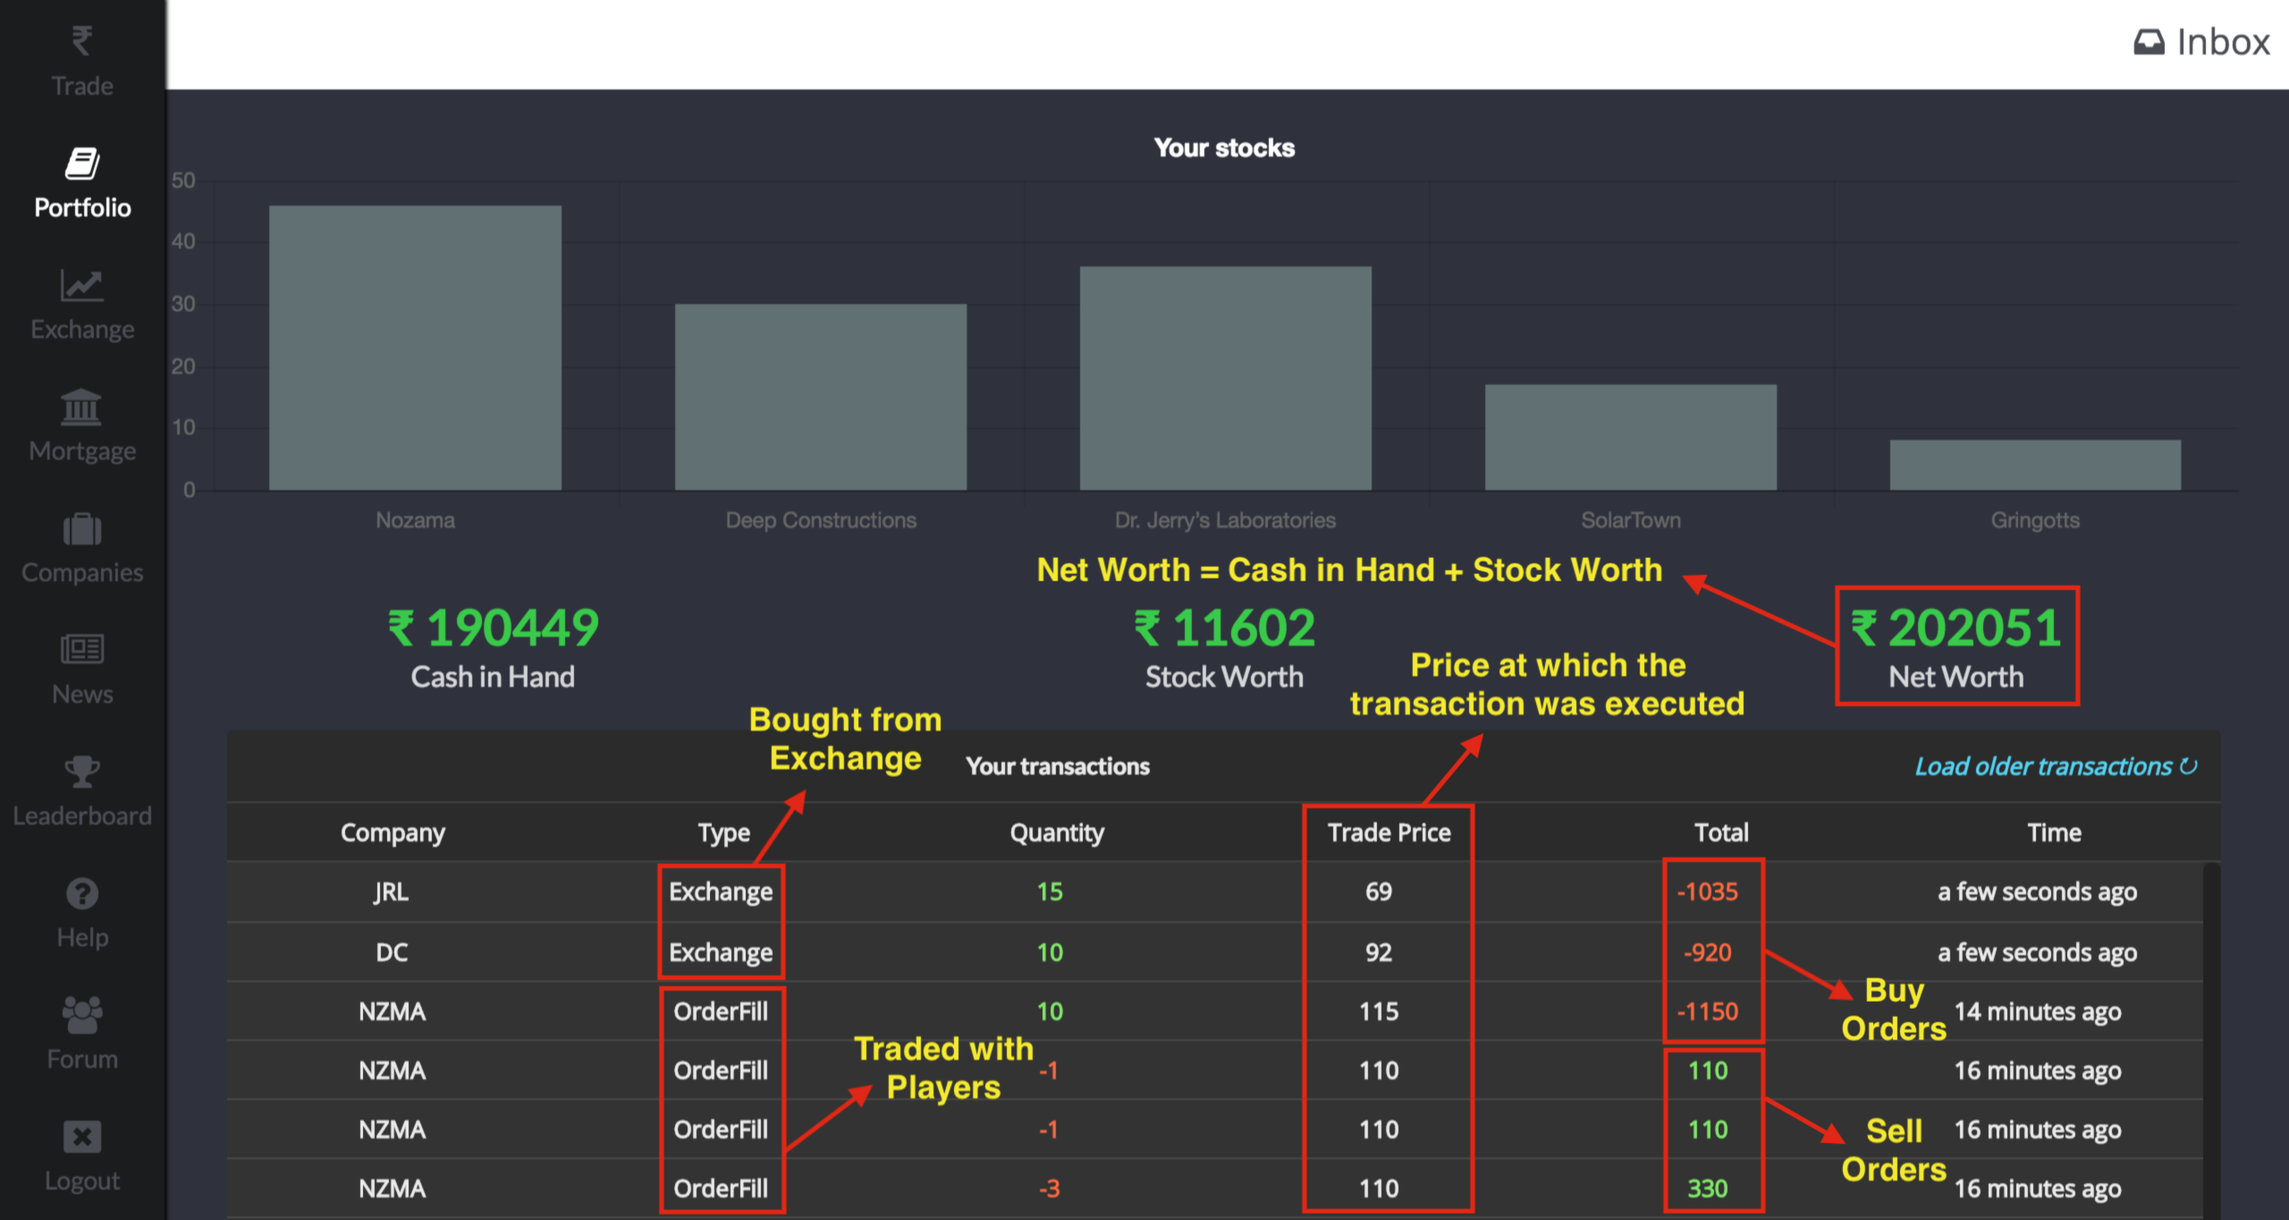
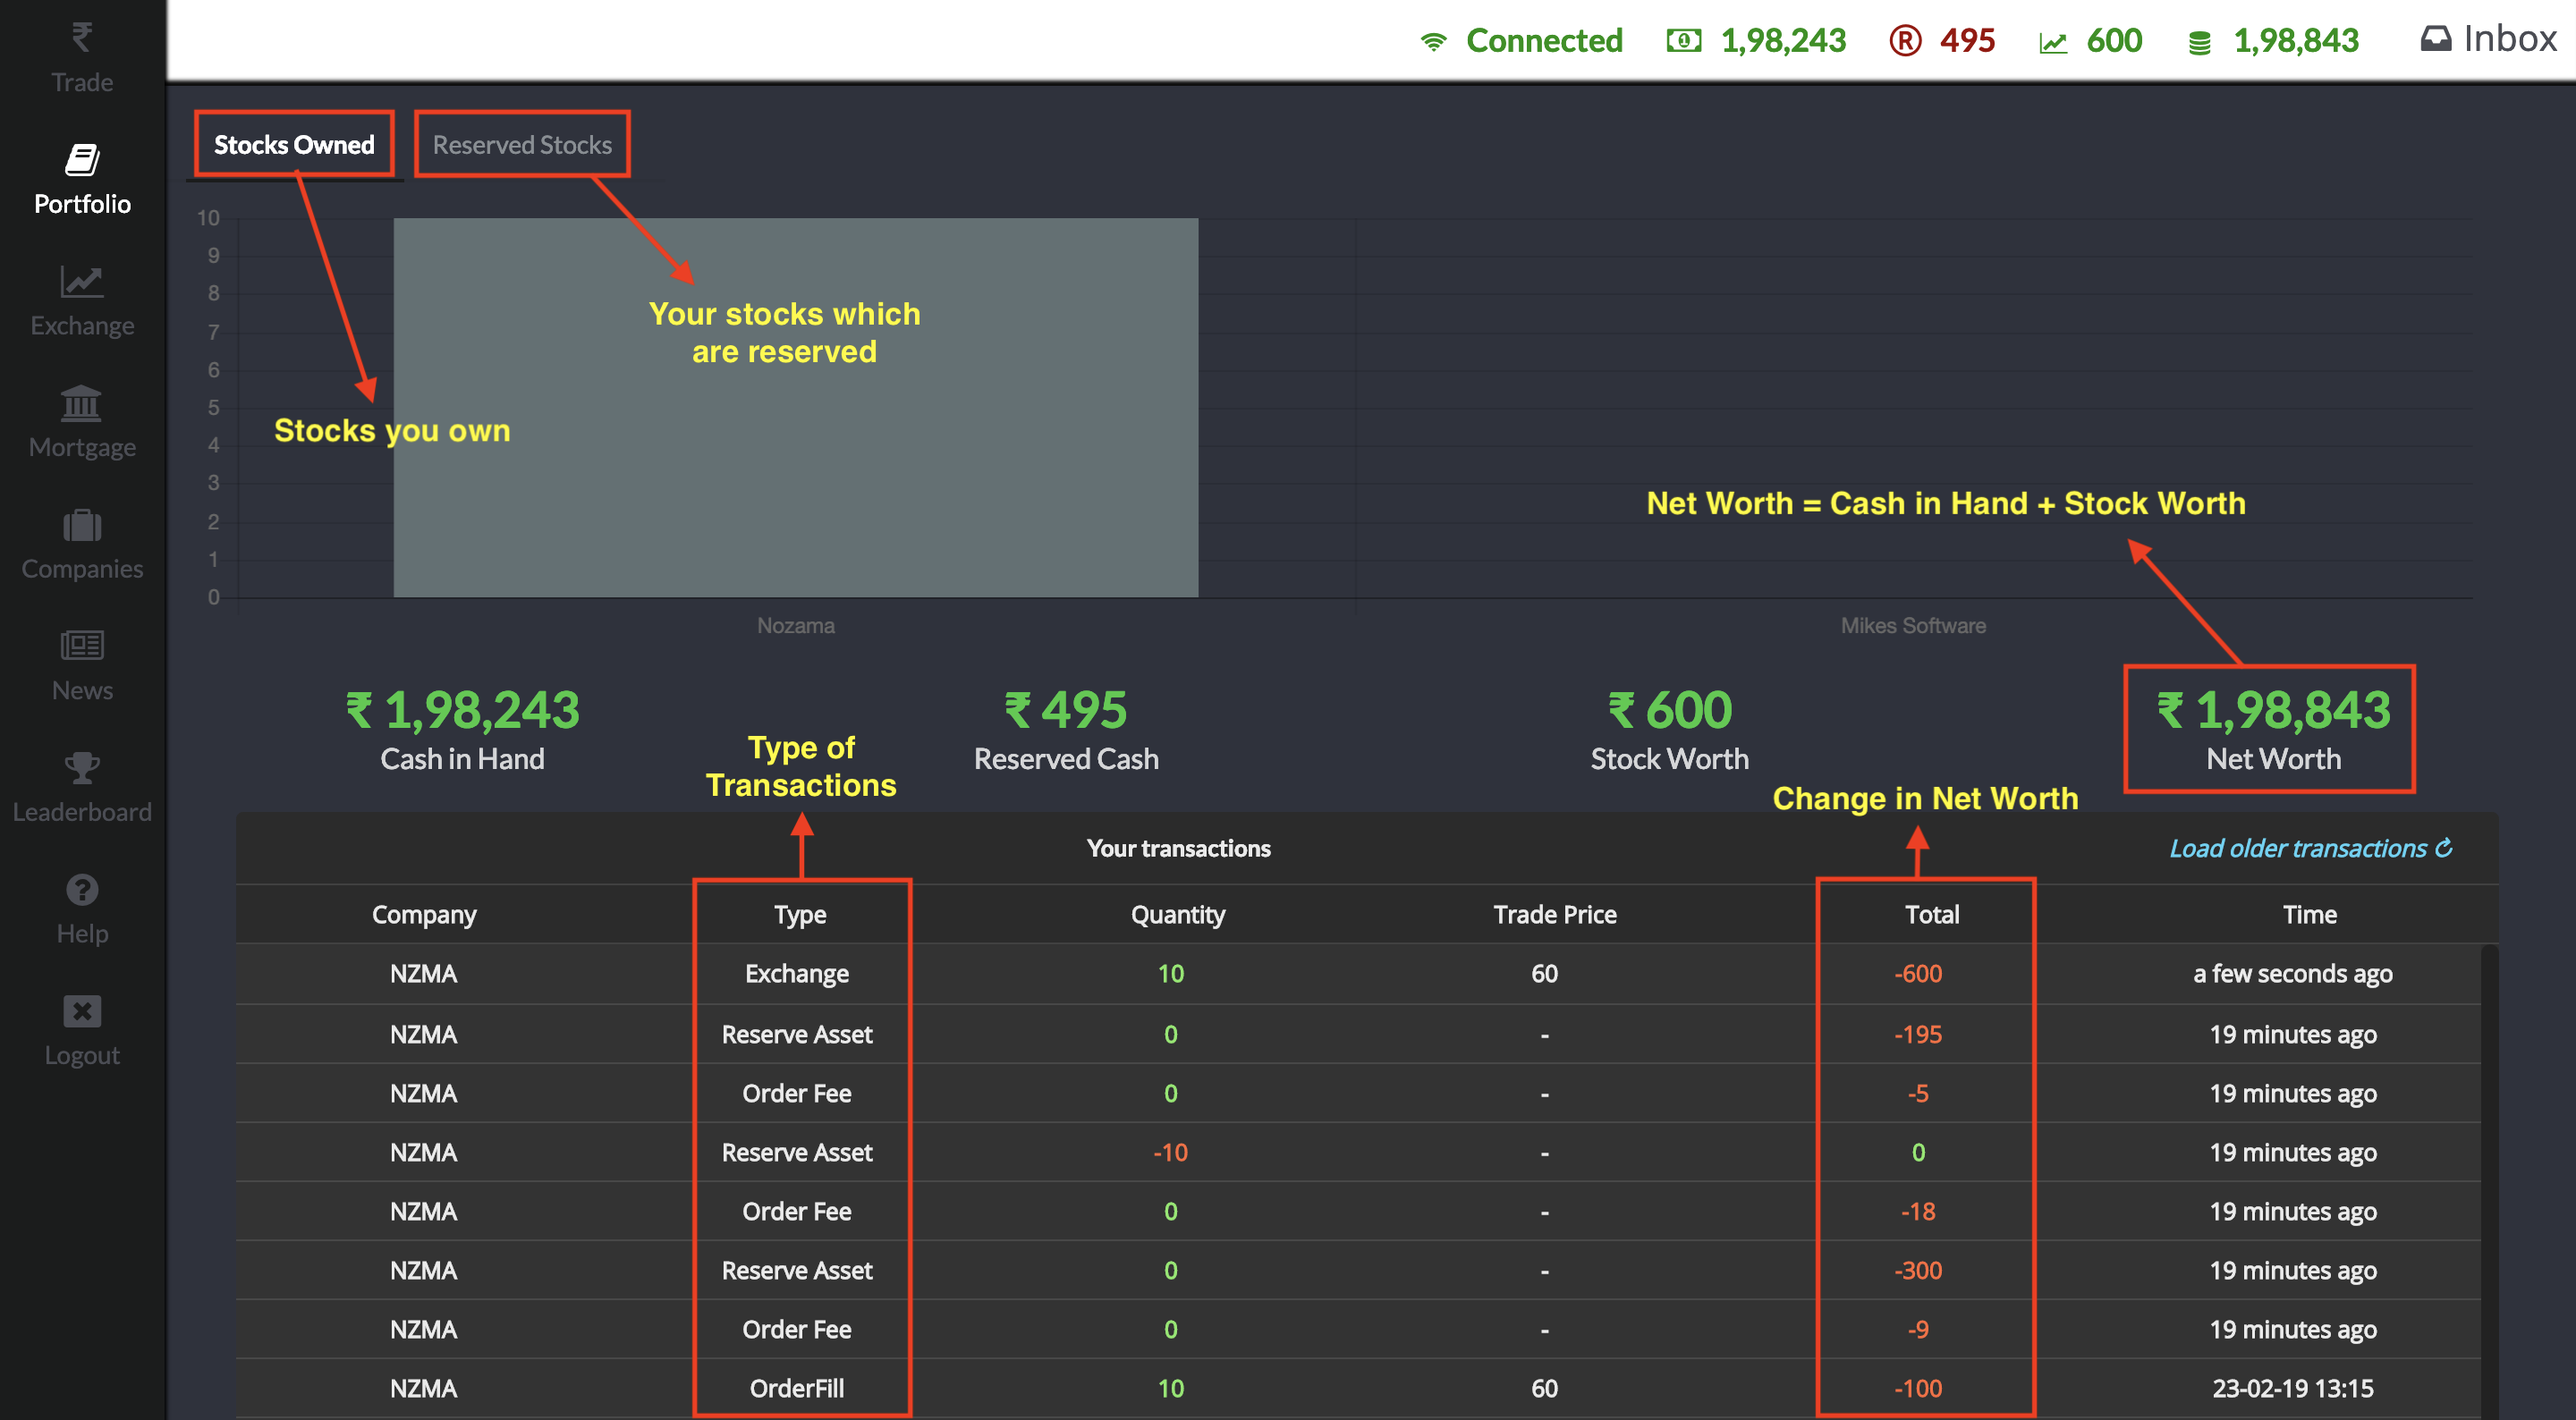
[help]: Updates to help docs for Dalal 2019

diff --git a/public/src/components/help/Help.tsx b/public/src/components/help/Help.tsx
@@ -103,11 +103,21 @@ export class Help extends React.Component<HelpProps, {}> {
                                         <p>Lets walk through all the elements of this page.</p>
                                         <p><strong>Order Book</strong> - The Market Depth lists all <em>open</em> buy and sell orders. This includes orders issued by <em>all players</em> that have not been filled yet. By observing the Market Depth, you can see the prices at which other players are placing their orders and judge the current mood of the market. The Trading History displays the last 15 transactions that have been executed for the company you’ve chosen.</p>
                                         <p><strong>Place Orders</strong> - There are 3 different types of orders you can place - Market, Limit and Stoploss. <em>(You can read more about these terms in our FAQ section)</em>. Once your orders are placed, we will fill the order based on a <em>best match</em> algorithm.</p>
-                                        <p><strong>Open Orders</strong> - These are the orders that you have placed but have not been filled yet. After you place an order, the order will appear here until it is successfully filled.</p>
+                                        <p><strong>Reserved Assets</strong> - When you place a Bid order, <strong>cash</strong> is reserved. When you place a Sell order, <strong>stocks</strong> are reserved. You can check how much cash is reserved in the Nav Bar at the top. Reserved stocks can be viewed in the <strong>Portfolio Page</strong>.</p>
+                                        <p><strong>Open Orders</strong> - These are the orders that you have placed but have not been filled yet. After you place an order, the order will appear here until it is successfully filled. You can cancel your open orders to get back your reserved assets.</p>
                                         <p><strong>Price Chart</strong> - This shows how the stock price of the selected company has changed over time. You can view the chart with different time intervals by using the dropdown above the chart. This allows you to analyse the data at different levels of detail.</p>
                                         <p>Once you’ve bought some stocks, you can view all the stocks you own as well as your <em>Net Worth</em> on the <strong>Portfolios Page</strong>, as shown in the image below. This page also displays a list of all your <strong>executed transactions</strong>.</p>
                                         <p className="image-wrapper"><img src="./public/src/images/help/Dalal_Portfolio_Page.png" alt="Portfolio Image" /></p>
                                         <p>Hopefully, this should be enough to get you going and start trading! If you still have some questions, please read our FAQ section where we address some more common doubts that players may have.</p>
+                                    </div>
+
+                                    <div className="title">
+                                        <i className="dropdown icon inverted"></i>
+                                        <span className="faq-questions lighter">How is the winner determined</span>
+                                    </div>
+                                    <div className="content">
+                                        <p>Please note that <strong>while the game is progressing, the Leaderboard rankings do not 100% accurately reflect the winner of the game</strong>. This is because the leaderboard rankings <strong>do not take Reserved Assets into account</strong>. At the end of the game however, all Reserved Assets will be returned to the user. This will change the Net Worth and could ultimately change the leaderboard rankings as well.</p>
+                                        <p>So don't give up until the end! Your leaderboard rankings could jump when you receive all your Reserved Assets back at the end of the game!</p>
                                     </div>
                                 </div>
                             </div>
@@ -149,7 +159,7 @@ export class Help extends React.Component<HelpProps, {}> {
                                         <span className="faq-questions">What is my Net Worth and how is it calculated?</span>
                                     </div>
                                     <div className="content">
-                                        <p>The player with the highest Net Worth at the end of 7 days is the winner. Your Net Worth is split into two parts - <em>Cash In Hand</em> and <em>Stock Worth</em>. You can view these values on the <strong>Portfolio page</strong>. Here’s a table explaining how your Net Worth will change in response to different events :-</p>
+                                        <p>Your Net Worth is split into two parts - <em>Cash In Hand</em> and <em>Stock Worth</em>. You can view these values on the <strong>Portfolio page</strong>. Here’s a table explaining how your Net Worth will change in response to different events :-</p>
                                         <table className="ui inverted table">
                                             <thead>
                                                 <tr>
@@ -186,6 +196,7 @@ export class Help extends React.Component<HelpProps, {}> {
                                                 </tr>
                                             </tbody>
                                         </table>
+                                        <p>Please note that your <strong>Net Worth does NOT take into account reserved assets.</strong> At the end of 7 days, all open orders will be cancelled, thus <strong>returning all reserved assets</strong> to the user. <strong>This will change your Net Worth</strong> and could change the leaderboard rankings.</p>
                                     </div>
 
                                     <div className="title">
@@ -199,6 +210,20 @@ export class Help extends React.Component<HelpProps, {}> {
                                             <p>After you short sell a company, if the stock price dips below the price you sold it for, then you will have made a profit and vice-versa.</p>
                                             <p><em>Note: You can only short sell a maximum of 50 stocks per company</em></p>
                                         </div>
+                                    </div>
+
+                                    <div className="title">
+                                        <i className="dropdown icon inverted"></i>
+                                        <span className="faq-questions">What are the different types of transactions on the Portfolio Page?</span>
+                                    </div>
+                                    <div className="content">
+                                        <p><strong>Exchange</strong> - When you buy stocks from the exchange.</p>
+                                        <p><strong>OrderFill</strong> - Represents a trade between users.</p>
+                                        <p><strong>Mortgage</strong> - These transactions occur when you mortgage your stocks or retrieve stocks you've already mortgaged.</p>
+                                        <p><strong>Order Fee</strong> - Every order you place has an associated order fee.</p>
+                                        <p><strong>Tax</strong> - Nothing comes free! So you are charged a small tax whenever you make a profit off of a trade.</p>
+                                        <p><strong>Reserve Asset</strong> - Represents either cash or stocks being reserved when you place a Bid or Sell order respectively.</p>
+                                        <p><strong>Cancel Order</strong> - Represents Reserved Assets being returned when you cancel an order.</p>
                                     </div>
 
                                     <div className="title">
@@ -225,10 +250,10 @@ export class Help extends React.Component<HelpProps, {}> {
                                             <ol>
                                                 <li><strong>Mortgage</strong> - In this step, you will be selling your stocks to the exchange at the Deposit Rate <em>(80% of the Current Stock Price).</em></li>
                                                 <br /><p className="image-wrapper"><img src="./public/src/images/help/Dalal_Mortgage.png" alt="Mortgage Image" /></p>
-                                                <li><strong>Retrieval</strong> - Here, you will be retrieving the stocks you initially mortgaged by paying the exchange at the Retrieval Rate <em>(90% of the Current Stock Price).</em></li>
+                                                <li><strong>Retrieval</strong> - Here, you will be retrieving the stocks you initially mortgaged by paying the exchange at the Retrieval Rate <em>(90% of the Mortgaged Price).</em></li>
                                                 <br /><p className="image-wrapper"><img src="./public/src/images/help/Dalal_Retrieve.png" alt="Retrieval Image" /></p>
                                             </ol>
-                                            <p><em>Note</em> : After you mortgage a stock, it is no longer a part of your portfolio and hence, will not contribute to your stock worth (until you retrieve it).</p>
+                                            <p><em>Note</em> : After you mortgage a stock, it is no longer a part of your portfolio and hence, will not contribute to your stock worth (until you retrieve it). However, at the end of the game, users will be forced to retrieve all of their mortgaged stocks at the Retrieval Price.</p>
                                         </div>
                                     </div>
 
